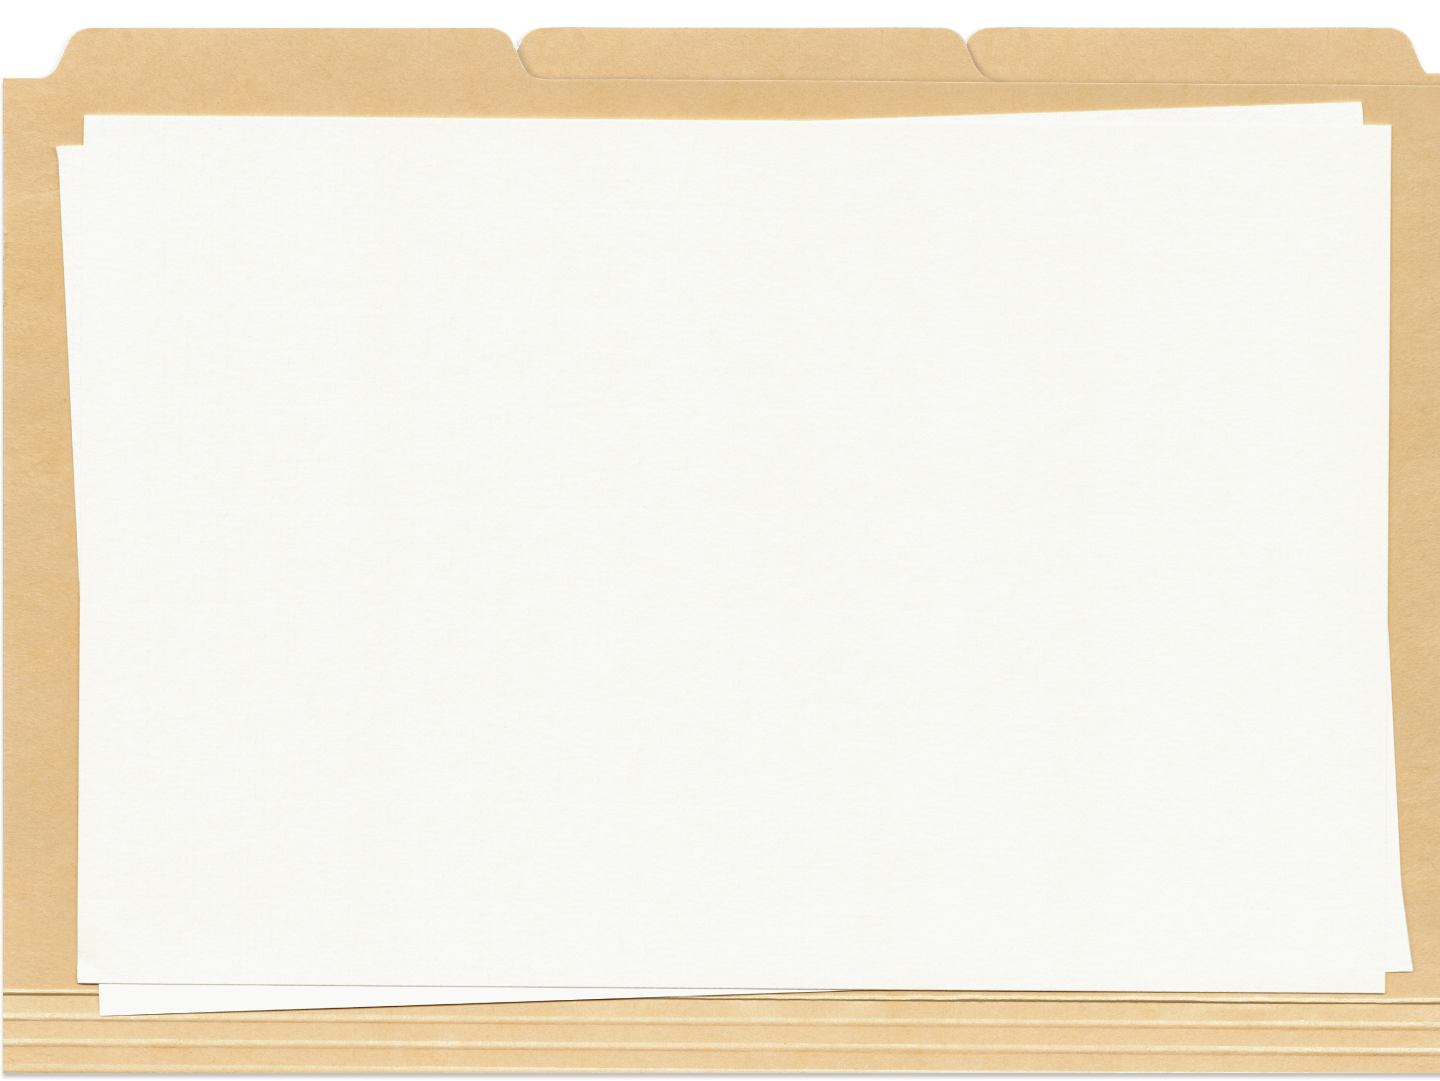
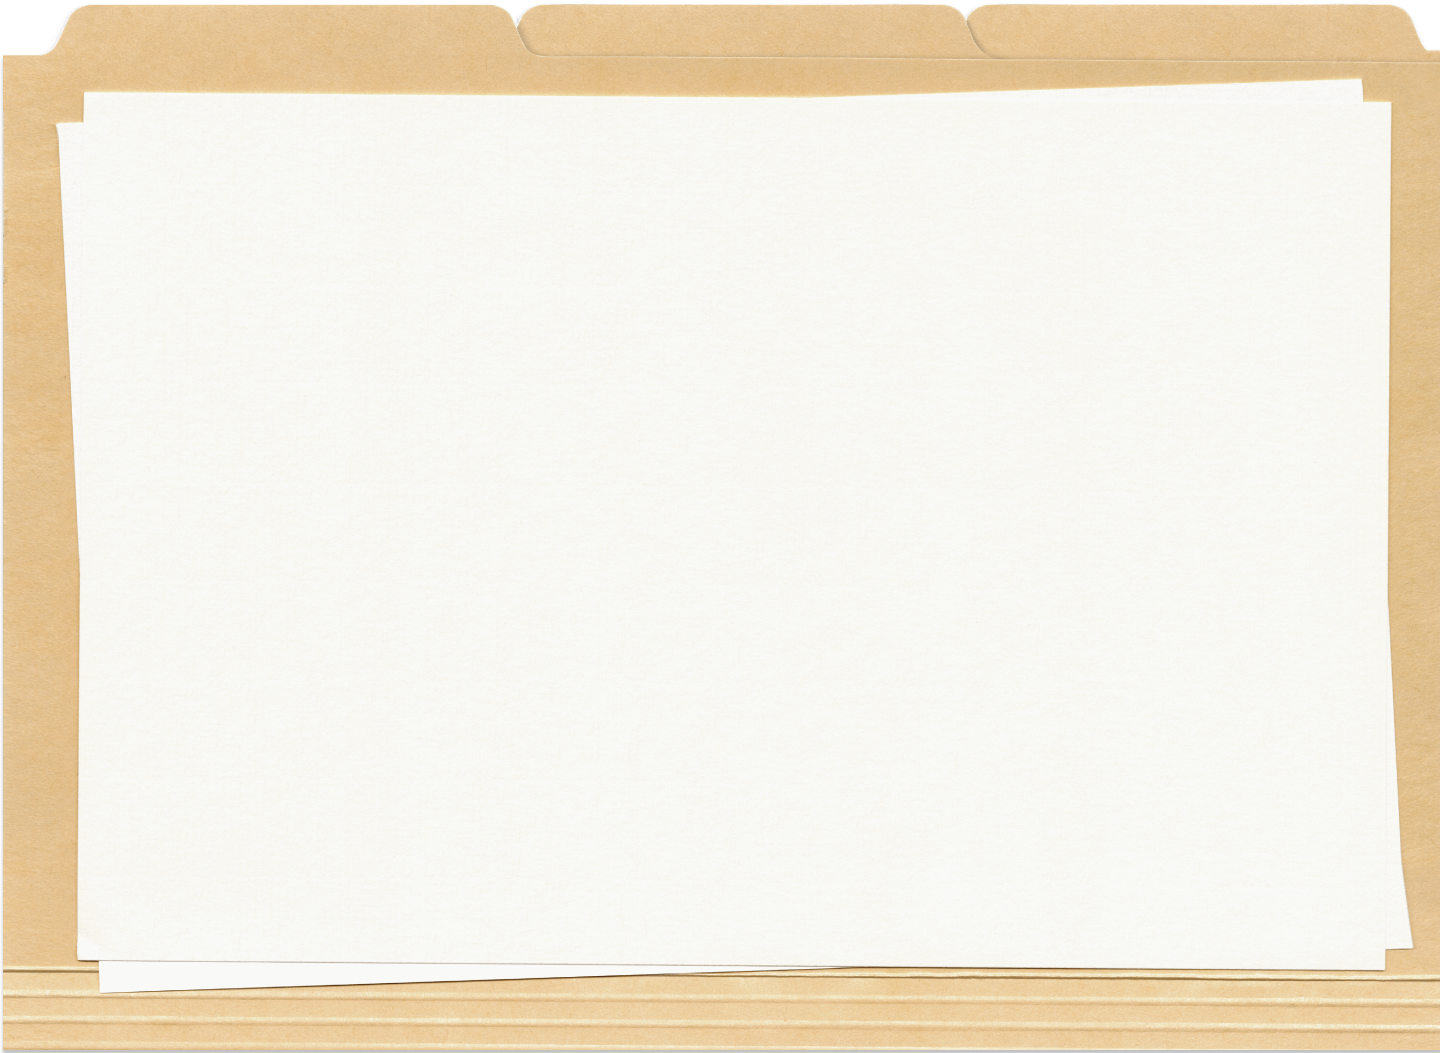
🐛 fix usual suspect tabs bg

Changed region(s): [[0.0, 0.9117, 1.0, 1.0], [0.0, 0.0, 1.0, 0.1519]]

diff --git a/src/styles/components/_usual-suspects.scss b/src/styles/components/_usual-suspects.scss
@@ -163,12 +163,12 @@
     }
 
     .common-suspects-tabs {
-        min-height: 800px; // Temporal height, remove when development is completed.
+        min-height: 50rem; // Temporal height, remove when development is completed.
         position: relative;
 
         background-repeat: no-repeat;
-        background-size: 100%;
-        background-position: top;
+        background-size: 100% 100% !important;
+        background-position: center;
 
         background-color: $color-floral-white;
 
@@ -187,27 +187,33 @@
             transform: translateX(-50%) rotate(2deg);
         }
 
-        
-
         @media screen and (min-width: 1024px) {
 
             background-color: transparent;
+            min-height: 55rem;
 
             &[data-active-tab="usual-suspects_tab1"] {
-                background-image: url("/assets/images/usual-suspects/adults-folder-tab.png");
+                background-image: url("/assets/images/usual-suspects/adults-folder-tab.png") !important;
             }
 
             &[data-active-tab="usual-suspects_tab2"] {
-                background-image: url("/assets/images/usual-suspects/children-adolescents-folder-tab.png");
+                background-image: url("/assets/images/usual-suspects/children-adolescents-folder-tab.png") !important;
             }
 
             &[data-active-tab="usual-suspects_tab3"] {
-                background-image: url("/assets/images/usual-suspects/neonates-infants-folder-tab.png");
+                background-image: url("/assets/images/usual-suspects/neonates-infants-folder-tab.png") !important;
             }
 
             &::before {
                 display: none;
             }
+        }
+
+        @media screen and (min-width: 1366px) {
+            min-height: 58rem;
+
+            max-width: 100rem;
+            margin: 0 auto;
         }
 
         .red-string {

diff --git a/src/styles/components/_suspect-card.scss b/src/styles/components/_suspect-card.scss
@@ -126,5 +126,14 @@
 .suspect-card__cards-container--foot {
     @media screen and (min-width: 1024px) {
         padding: 0 2rem;
+        max-width: var(--wrapper-max-width);
+        margin-left: auto;
+        margin-right: auto;
+    }
+
+    @media screen and (min-width: 1600px) {
+
+        max-width: 90rem;
+
     }
 }
